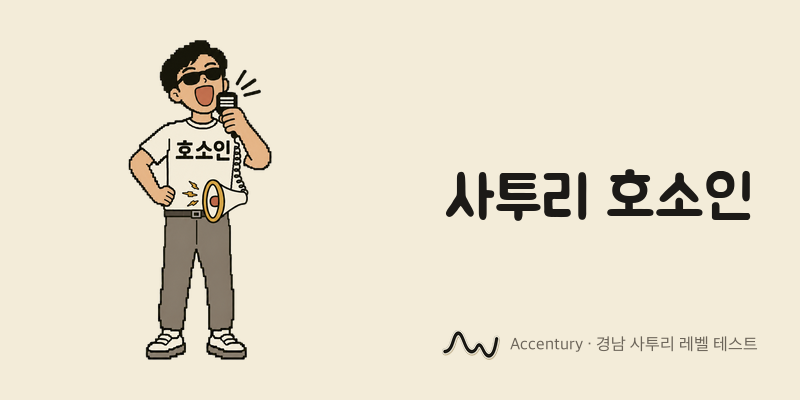
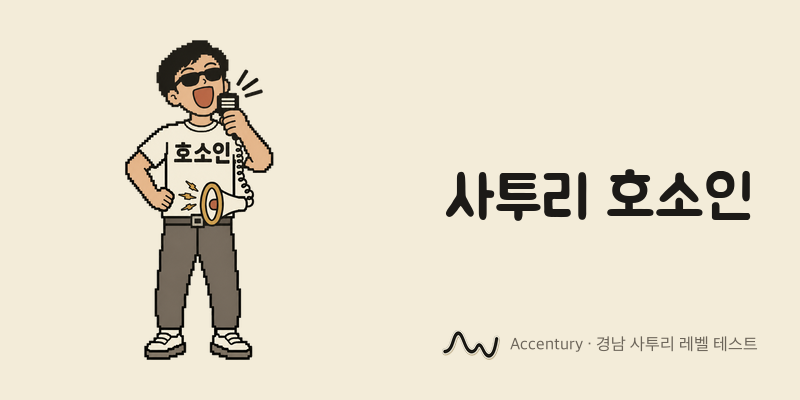
KAN-325 호소인을 처음부터 다시 생성 - 티셔츠 윤곽·버클 위치 정리, 리뷰 P2 반영(README source 설명)

Changed region(s): [[0.1562, 0.12, 0.3438, 0.9], [0.2188, 0.09, 0.25, 0.12]]

diff --git a/assets/characters/wannabe/prompt.md b/assets/characters/wannabe/prompt.md
@@ -1,49 +1,16 @@
-Use the built-in `image_gen` tool (default mode, no CLI fallback). Do not ask questions. Do not write SVG or draw by code. Save the file in the current directory, portrait 1024x1536.
+Use the built-in `image_gen` tool (default mode, no CLI fallback). Do not ask questions. Do not write SVG or draw by code. Save `wannabe.png` in the current directory, portrait 1024x1536.
 
-Attached: (1) the draft of this tier, keep its idea, (2) the proportion reference.
-`wannabe.png`: head tilted back, huge open-mouth shout, solid black sunglasses. Plain cream short-sleeve t-shirt with exactly the Korean text "호소인" large in the center of the chest, shirt fully outlined with both sleeves, both side seams and a continuous hem. One fist grips a black radio speaker microphone at the mouth, fingers wrapped round it. A coiled black cord starts at the bottom of the microphone, comes down through the gap between the raised arm and the torso, and runs outside the shirt's side seam to the narrow end of the megaphone. No cord on the arm. Megaphone at the hip on the viewer's right, clipped to the belt, wide bell facing the viewer's left. Three ochre bolts at thigh and knee level on the viewer's left, none near the groin. Other hand on hip.
+Attached: (1) the current drawing, the idea and pose to redraw from scratch cleanly, (2) reference for person, proportions, pixel size, outline weight and palette.
 
-Proportions, matching the reference: the head is about one fifth of the full standing height (about 4.7 heads tall), head height about 170 px, whole figure about 800 px tall, same pixel size and ink outline weight, same neat short black hair with a side part.
-NO stamps anywhere: no stamp card, stamp book or stamp circles.
-Pixel art look: crisp square pixels, no blur or gradient. Only these flat colors: cream #F3ECD9, shade #CFC5AA, ink #1C1A17, warm gray #6B6459, terracotta #A8503A, ochre #C49A4A, dusty teal #6F8F8A, tan #DDB892. Skin is tan. Background one flat uniform cream #F3ECD9. No floor or texture. At least 8% empty margin on every side. No logo, signature or watermark.
-After saving, print: DONE wannabe.png <width>x<height>.
+Draw a fresh, clean image of this tier:
+Person standing, feet apart, head tilted back, huge open-mouth shout, solid black sunglasses, neat short black hair. Plain cream short-sleeve t-shirt with exactly the Korean text "호소인" large in the center of the chest. The shirt has a complete closed ink outline: both sleeves, both side seams running unbroken from armpit to hem, and a continuous hem.
+Warm gray trousers with one centered fly line and a dark belt whose square buckle sits exactly on that center line.
+One raised fist grips a black rectangular radio speaker microphone at the mouth, fingers wrapped around it. The other hand rests on the hip.
+A portable megaphone hangs on the viewer's right side at belt height, its body over the shirt side and belt, clipped to the belt, wide ochre-rimmed bell facing the viewer's left. A coiled black cord runs from the bottom of the microphone down outside the shirt's right side seam to the narrow end of the megaphone. The cord does not cover the seam, the arm or the text.
+Three medium ochre lightning bolts burst from the bell toward the left, over the lower shirt, not touching the hand on the hip, the text or the buckle.
 
-
----
-
-Use the built-in `image_gen` tool (default mode, no CLI fallback), editing the attached image. Do not ask questions. Do not write SVG or draw by code. Save `wannabe.png` in the current directory, portrait 1024x1536.
-
-Keep everything exactly: person, face, sunglasses, radio microphone in the fist, t-shirt with the Korean text "호소인", sleeves, side seams, hem, belt, trousers, shoes, other hand on hip, colors, position and scale.
-
-Change only this: raise the megaphone so its center sits at belt height, right beside the belt buckle area, still on the viewer's right side and still facing the viewer's left. Move its clip so it hangs from the belt. The three ochre bolts move up with it, staying beside the bell and to the left of it, level with the upper thigh, none on the groin. The coiled cord still runs unbroken from the microphone to the narrow end of the megaphone, just shorter. The shirt hem, side seam and the text stay fully visible. Trousers where the megaphone used to be are restored plainly.
-
-Crisp square pixels, same colors, flat uniform cream background. Nothing touches an edge. No new text, logo or watermark.
-
-After saving, print: DONE wannabe.png <width>x<height>.
-
-
----
-
-Use the built-in `image_gen` tool (default mode, no CLI fallback), editing the attached image. Do not ask questions. Do not write SVG or draw by code. Save `wannabe.png` in the current directory, portrait 1024x1536.
-
-Keep everything exactly: person, face, sunglasses, radio microphone in the fist, t-shirt with the Korean text "호소인", sleeves, belt, trousers, shoes, other hand on hip, colors, position and scale.
-
-Change only this: move the whole megaphone straight UP by about 130 px, so the vertical center of its bell sits ON the belt line, about y=790 in the 1536 px image. The top of the bell rises over the lower part of the shirt, and the bell hides a short piece of the belt and shirt hem behind it. It stays at the same x position, still facing the viewer's left. The three ochre bolts move up with it by the same amount, staying left of the bell and outside the body at waist level. The coiled cord still runs unbroken from the microphone to the narrow end of the megaphone, just shorter, and stays clear of the text. Restore plain trousers where the megaphone was. The text "호소인" stays fully visible.
-
-Crisp square pixels, same colors, flat uniform cream background. Nothing touches an edge. No new text, logo or watermark.
-
-After saving, print: DONE wannabe.png <width>x<height>.
-
-
----
-
-Use the built-in `image_gen` tool (default mode, no CLI fallback), editing the attached image. Do not ask questions. Do not write SVG or draw by code. Save `wannabe.png` in the current directory, portrait 1024x1536.
-
-Keep everything exactly, including the megaphone position, the person, the hand on hip, the text "호소인", the cord and the trousers.
-
-Change only this: the three ochre lightning bolts currently sit on top of the hand on the hip, which is wrong. Remove them from there and restore the hand and arm cleanly. Draw three smaller ochre bolts right in front of the megaphone bell, fanning left, on the lower shirt just left of the bell, between the bell and the hand. They touch neither the hand, nor the text, nor the belt buckle.
-Also restore the belt: one continuous belt across the waist with a buckle, passing behind the megaphone.
-
-Crisp square pixels, same colors, flat uniform cream background. Nothing touches an edge. No new text, logo or watermark.
+The head is about one fifth of the standing height, whole figure about 800 px tall.
+No stamps, no card. No other text.
+Pixel art look: crisp square pixels, no blur or gradient. Only these flat colors: cream #F3ECD9, shade #CFC5AA, ink #1C1A17, warm gray #6B6459, terracotta #A8503A, ochre #C49A4A, tan #DDB892. Skin is tan. Background one flat uniform cream #F3ECD9. No floor or texture. At least 8% empty margin on every side. No logo, signature or watermark.
 
 After saving, print: DONE wannabe.png <width>x<height>.
